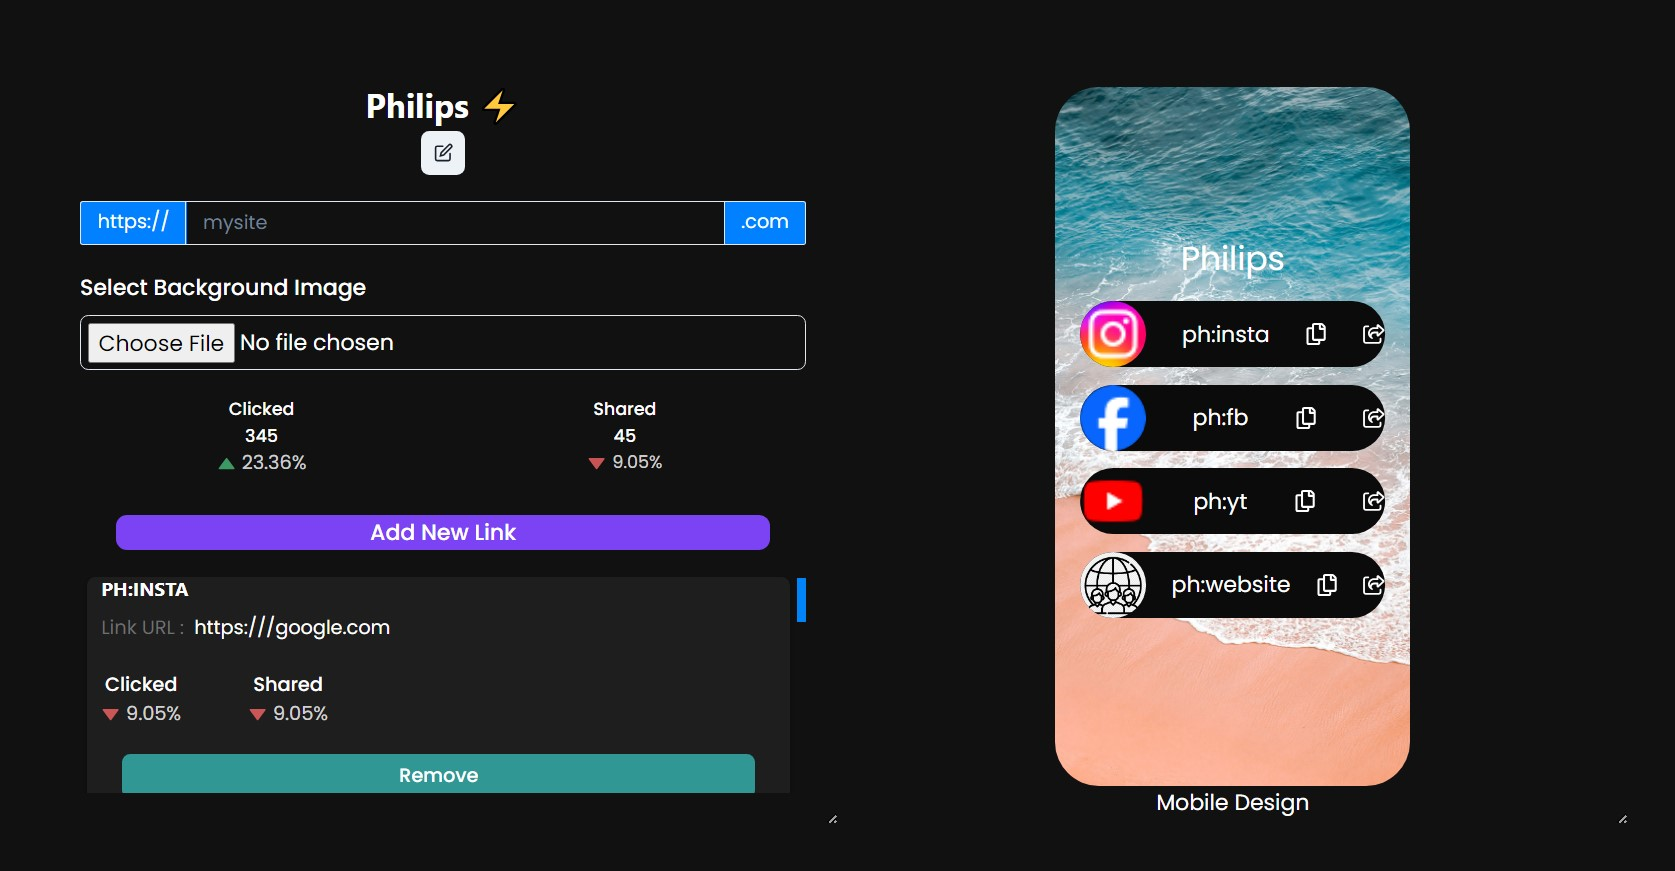
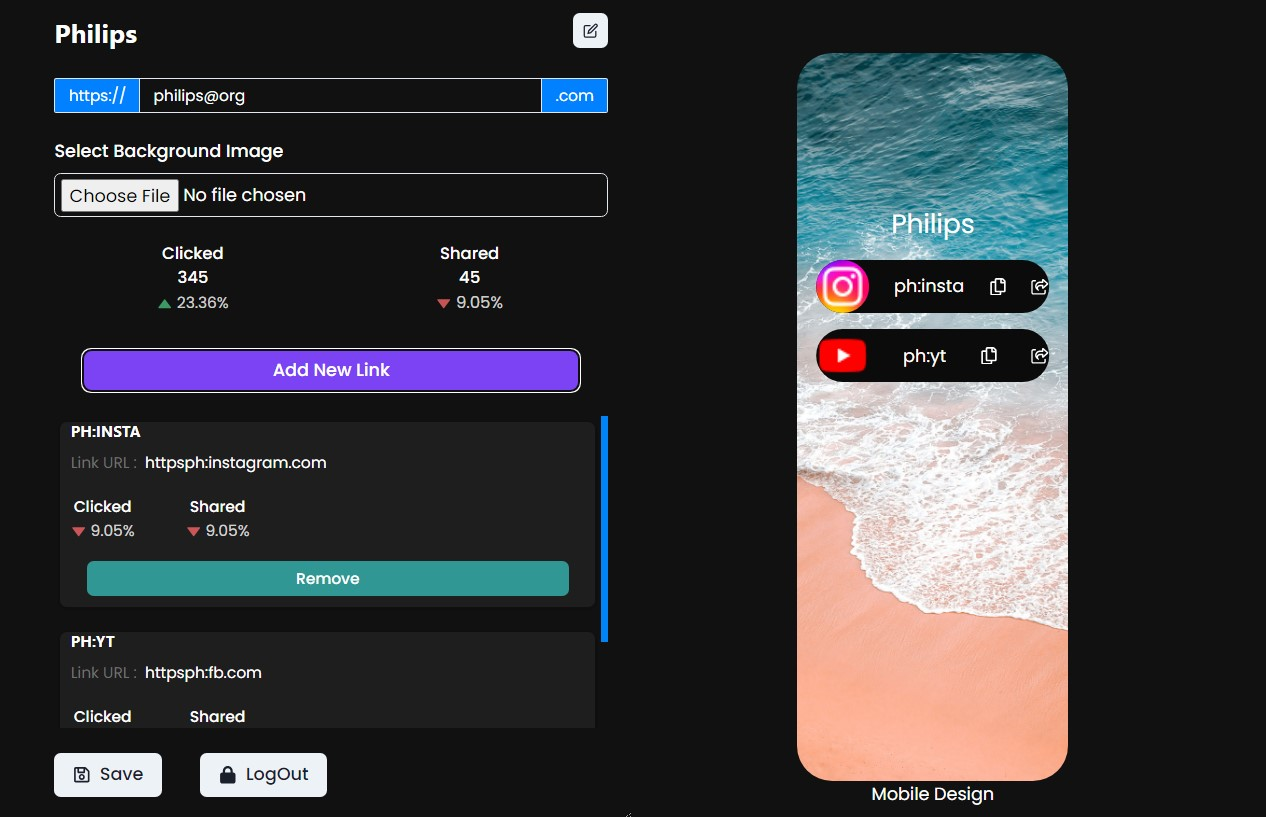
Updated images

diff --git a/frontend/src/Components/DesignPg/DesignPg.jsx b/frontend/src/Components/DesignPg/DesignPg.jsx
@@ -25,13 +25,14 @@ const DesignPg = () => {
     const [arr, setArr] = useState([]);
     const [email, setEmail] = useState(JSON.parse(localStorage.getItem('userInfo')).email);
     const { isOpen, onOpen, onClose } = useDisclosure()
-    const [bgimg, setBg] = useState(JSON.parse(localStorage.getItem('userInfo')).bgimg);
+    const [bgimg, setBg] = useState();
     // Modal New Link Variables
     const [type, setType] = useState();
     const [url, setUrl] = useState();
     const [actual, setActual] = useState();
     const toast = useToast();
-    const [name, setName] = useState(JSON.parse(localStorage.getItem('userInfo')).name);
+    const [name, setName] = useState("");
+    const[companyurl,setCurl]=useState(name);
     function EditableControls() {
         const {
             isEditing,
@@ -84,7 +85,7 @@ const DesignPg = () => {
             actual: actual,
             type: type,
         }
-        console.log(newl);
+        
         const newArr = [...arr, newl];
         setArr(newArr);
         try {
@@ -163,6 +164,8 @@ const DesignPg = () => {
     useEffect(() => {
         // console.log(JSON.parse(localStorage.getItem('userInfo')))
         setArr(JSON.parse(localStorage.getItem('userInfo')).links);
+        setName(JSON.parse(localStorage.getItem('userInfo')).name);
+        setBg(JSON.parse(localStorage.getItem('userInfo')).bgimg);
 
     }, [])
     return (
@@ -188,7 +191,7 @@ const DesignPg = () => {
 
                 <InputGroup size='sm'>
                     <InputLeftAddon children='https://' backgroundColor='#0180ff' />
-                    <Input placeholder='mysite' value={name} />
+                    <Input placeholder='mysite' value={companyurl} onChange={(e)=>setCurl(e.target.url)} />
                     <InputRightAddon children='.com' backgroundColor='#0180ff' />
                 </InputGroup>
 

diff --git a/Backend/models/userModels.js b/Backend/models/userModels.js
@@ -11,6 +11,8 @@ const userSchema = mongoose.Schema(
             required: true,
             unique: true,
         },
+        websiteurl:{type: String,default:"temp"},
+
         password: {
             type: String,
             required: true,

diff --git a/Backend/Controllers/userControllers.js b/Backend/Controllers/userControllers.js
@@ -52,6 +52,7 @@ const authUser = asyncHandler(async (req, res) => {
         token: generateToken(user._id), 
         links:user.links,
         bgimg:user.bgimg,
+        url:user.url,
       });
     } else {
       res.status(401);
